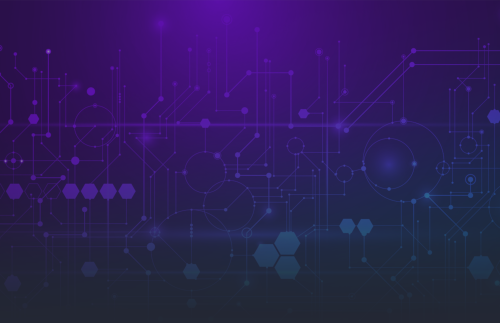
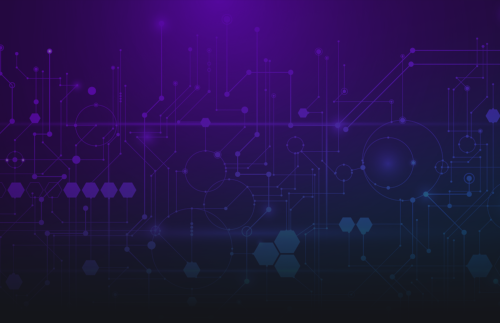
Background that matches the slate of the documentation site

diff --git a/public/css/menu.css b/public/css/menu.css
@@ -87,7 +87,7 @@
 
 .menuOnceScrolled {
   border-radius: 3px;
-  background-color: rgba(255, 255, 255, 0.2);
+  background: linear-gradient(hsla(255, 15%, 9%, 1), hsla(255, 15%, 9%, 0.2));
   backdrop-filter: blur(8px);
 }
 

diff --git a/public/css/purple-theme.css b/public/css/purple-theme.css
@@ -11581,7 +11581,7 @@ button.btn-close:focus {
 
 body.theme--dark,
 .theme--dark .bg--white-100 {
-  background-color: #232734 !important;
+  background-color: #14151a !important;
 }
 
 body.theme--dark {
